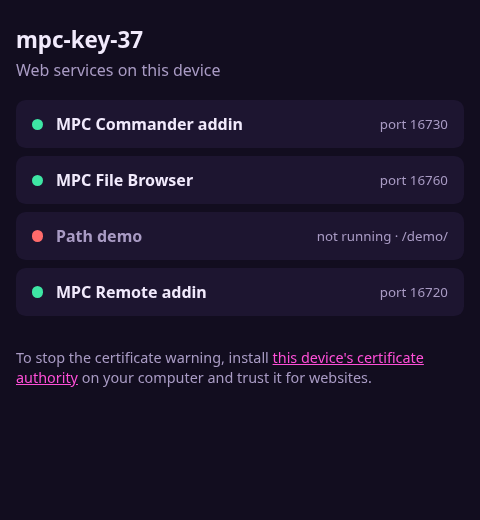
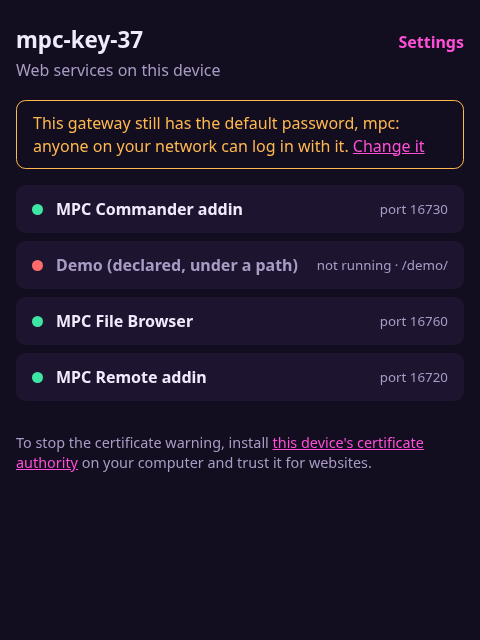
PROGRESS: playback figures for the current build, declared services on the MPC Sample; README screenshot with Settings

diff --git a/PROGRESS.md b/PROGRESS.md
@@ -104,3 +104,16 @@ device can get the lines by hand (they're the device copies, not the repos).
 - Draft gateway-addin-v0.1.0 replaced by one from fca7643 (run 42642122508: all tests PASSED); still a draft.
 - Start-page video with declared services (Key 37, addins_dir= test folder of manifest copies with ADDIN_WEB_* lines,
   nothing of the other addins changed): demo down -> up -> down, 31 s.
+- Re-measured with the draft's armv7 zip (fca7643) on the Key 37, PLAY/STOP pressed through the gateway (Remote via
+  forward=): idle Caddy 0% / MPC 13% of one core; playing 0% / 19%; playing + 200 page loads 22% / 16%. Caddy RSS
+  46-48 MB, gateway-settings RSS 376 kB. Then uninstalled; drop-in c0de1549; MPC running.
+- MPC Sample, declared services through its own settings page API (addins_dir set to a test folder with copies of its
+  real remote and commander manifests plus ADDIN_WEB_* lines, and a declared /demo/): listed from the manifests, remote
+  and commander down (not loaded on the Sample), /demo/ 502 while down, served and "up" once a stand-in listened.
+  addins_dir restored through the API; folder deleted; gateway left running as the user asked.
+- tested.json: the 0.1.0 entries for both devices (2026-11-09) cover this build (fca7643), tested on both today.
+- Not tested, needs the user (outside this loop's authorization): Remote / Commander / FileBrowser declaring in their
+  own manifests (their repos), and running them on the Sample (Remote and FileBrowser only start in a process named
+  "MPC"; FileBrowser isn't installed there; Remote and Commander aren't loaded). Remote has no WebSocket (its screen is
+  the multipart /stream, routed and tested on the Key 37); CPU while playing on the Sample needs something to press
+  PLAY there (Remote isn't running on it).

diff --git a/README.md b/README.md
@@ -14,7 +14,7 @@ they only listen on the device itself, so until now you needed one SSH tunnel pe
 page listing every addin that has a web page, each marked running or not, one click away. The addins themselves keep
 listening on the device only; only the gateway faces the network, and nothing gets past it without the password.
 
-![The start page on an MPC Key 37: three addins running, a fourth declared but not running](docs/screenshots/landing.png)
+![The start page on an MPC Key 37: three addins running, a fourth declared but not running, and the default-password warning](docs/screenshots/landing.png)
 
 It works on MPC OS standalone devices (MPC Live, One, X, Key and Force, and the MPC Sample), Gen1 and Gen2.
 
